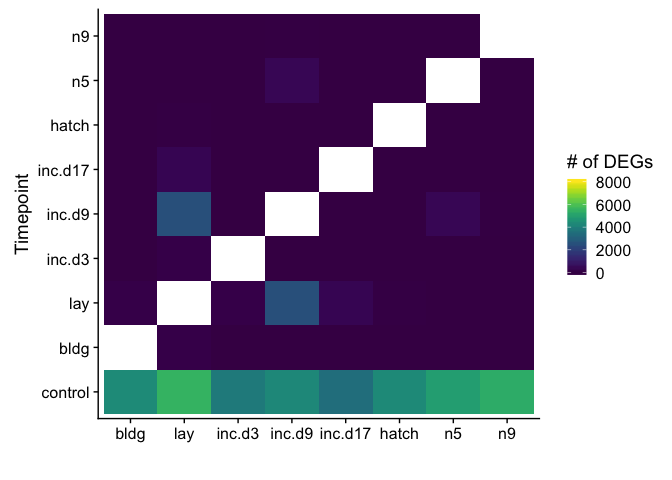
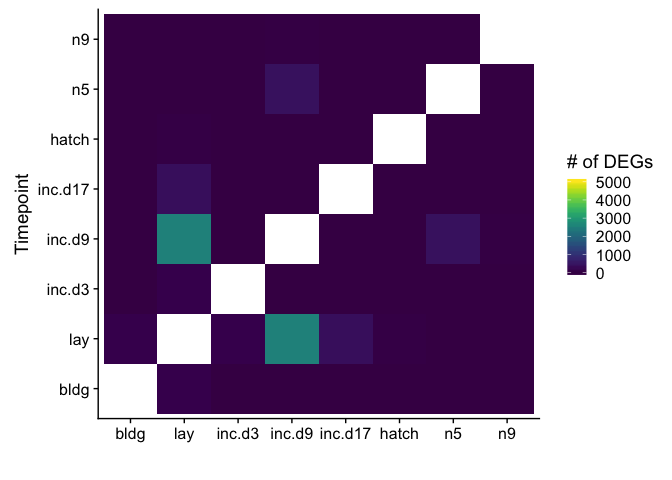
new figures, no control

diff --git a/analysis/02_DESeq2_hyp.md b/analysis/02_DESeq2_hyp.md
@@ -1114,6 +1114,18 @@ NA
 
 ![](../figures/hyp/restableMale-1.png)
 
+    dat %>%
+      filter(V1 != "control", V2 != "control")  %>%
+      ggplot( aes(V1, V2)) +
+        geom_tile(aes(fill = V3)) +
+        scale_fill_viridis(na.value="#FFFFFF00", 
+                         limits = c(0, 5025),
+                         breaks = c(0, 1000, 2000, 3000, 4000, 5000)) + 
+        xlab(" ") + ylab("Timepoint") +
+        labs(fill = "# of DEGs")
+
+![](../figures/hyp/restableMale-2.png)
+
     # create the dataframe using my function pcadataframe
     pcadata <- pcadataframe(vsd, intgroup=c("treatment"), returnData=TRUE)
     percentVar <- round(100 * attr(pcadata, "percentVar"))

diff --git a/analysis/03_DESeq2_pit.md b/analysis/03_DESeq2_pit.md
@@ -1113,6 +1113,18 @@ NA
 
 ![](../figures/pit/restableMale-1.png)
 
+    dat %>%
+      filter(V1 != "control", V2 != "control")  %>%
+      ggplot( aes(V1, V2)) +
+        geom_tile(aes(fill = V3)) +
+        scale_fill_viridis(na.value="#FFFFFF00", 
+                         limits = c(0, 5025),
+                         breaks = c(0, 1000, 2000, 3000, 4000, 5000)) + 
+        xlab(" ") + ylab("Timepoint") +
+        labs(fill = "# of DEGs")
+
+![](../figures/pit/restableMale-2.png)
+
     # create the dataframe using my function pcadataframe
     pcadata <- pcadataframe(vsd, intgroup=c("treatment"), returnData=TRUE)
     percentVar <- round(100 * attr(pcadata, "percentVar"))

diff --git a/analysis/04_DESeq2_gon.md b/analysis/04_DESeq2_gon.md
@@ -1112,12 +1112,12 @@ NA
 ![](../figures/gon/restableMale-1.png)
 
     dat %>%
-      filter(V1 != "control")  %>%
+      filter(V1 != "control", V2 != "control")  %>%
       ggplot( aes(V1, V2)) +
         geom_tile(aes(fill = V3)) +
         scale_fill_viridis(na.value="#FFFFFF00", 
-                         limits = c(0,8028),
-                         breaks = c(0, 2000, 4000, 6000, 8000)) + 
+                         limits = c(0, 5025),
+                         breaks = c(0, 1000, 2000, 3000, 4000, 5000)) + 
         xlab(" ") + ylab("Timepoint") +
         labs(fill = "# of DEGs")
 
